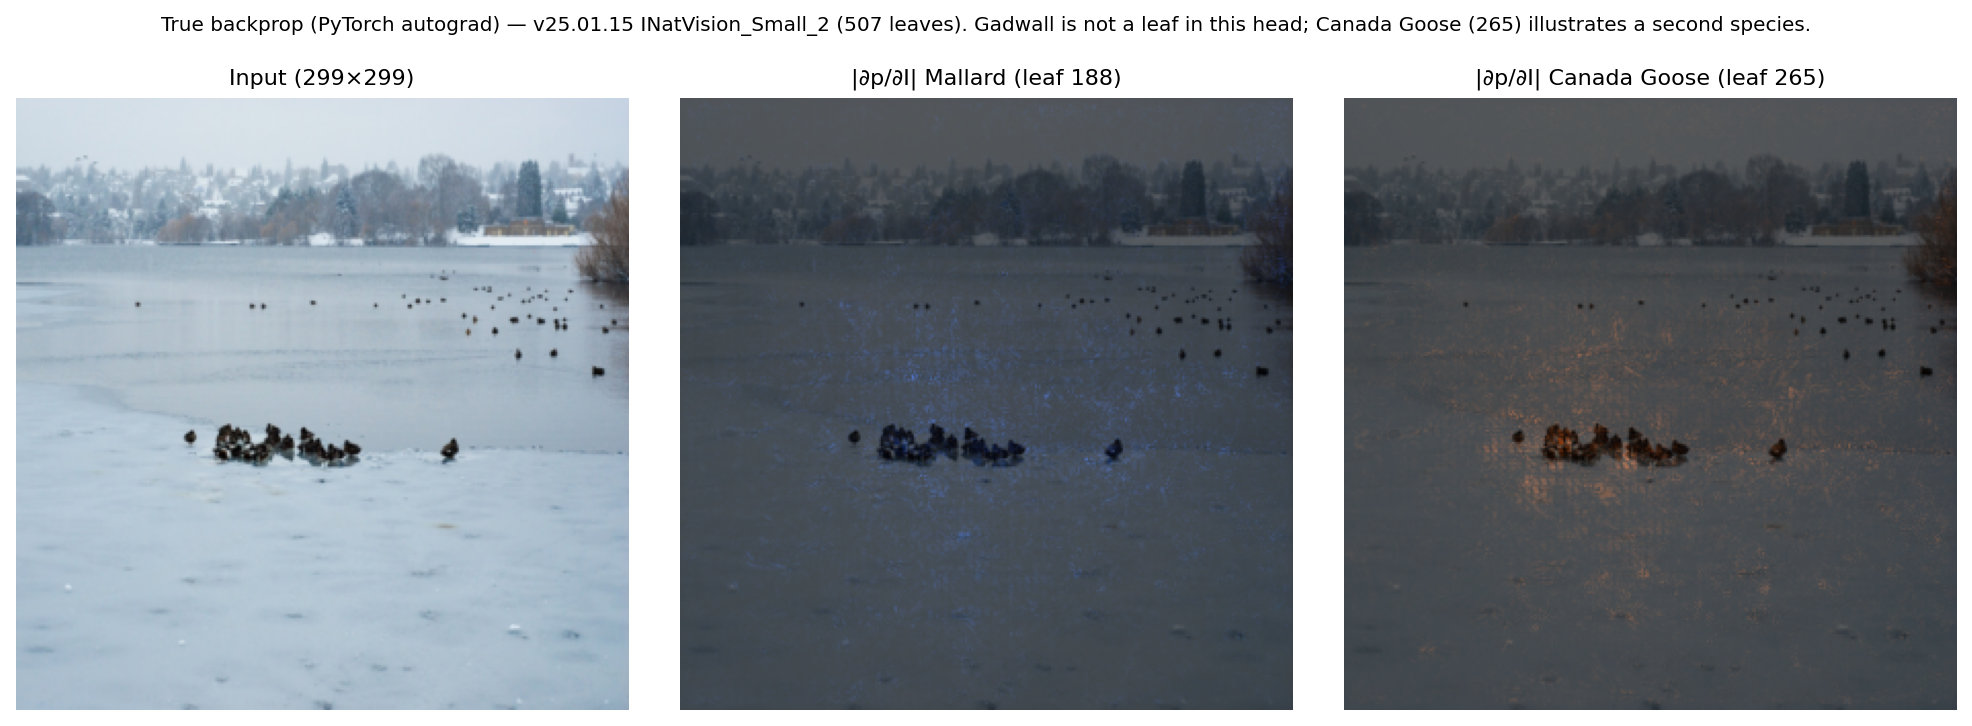
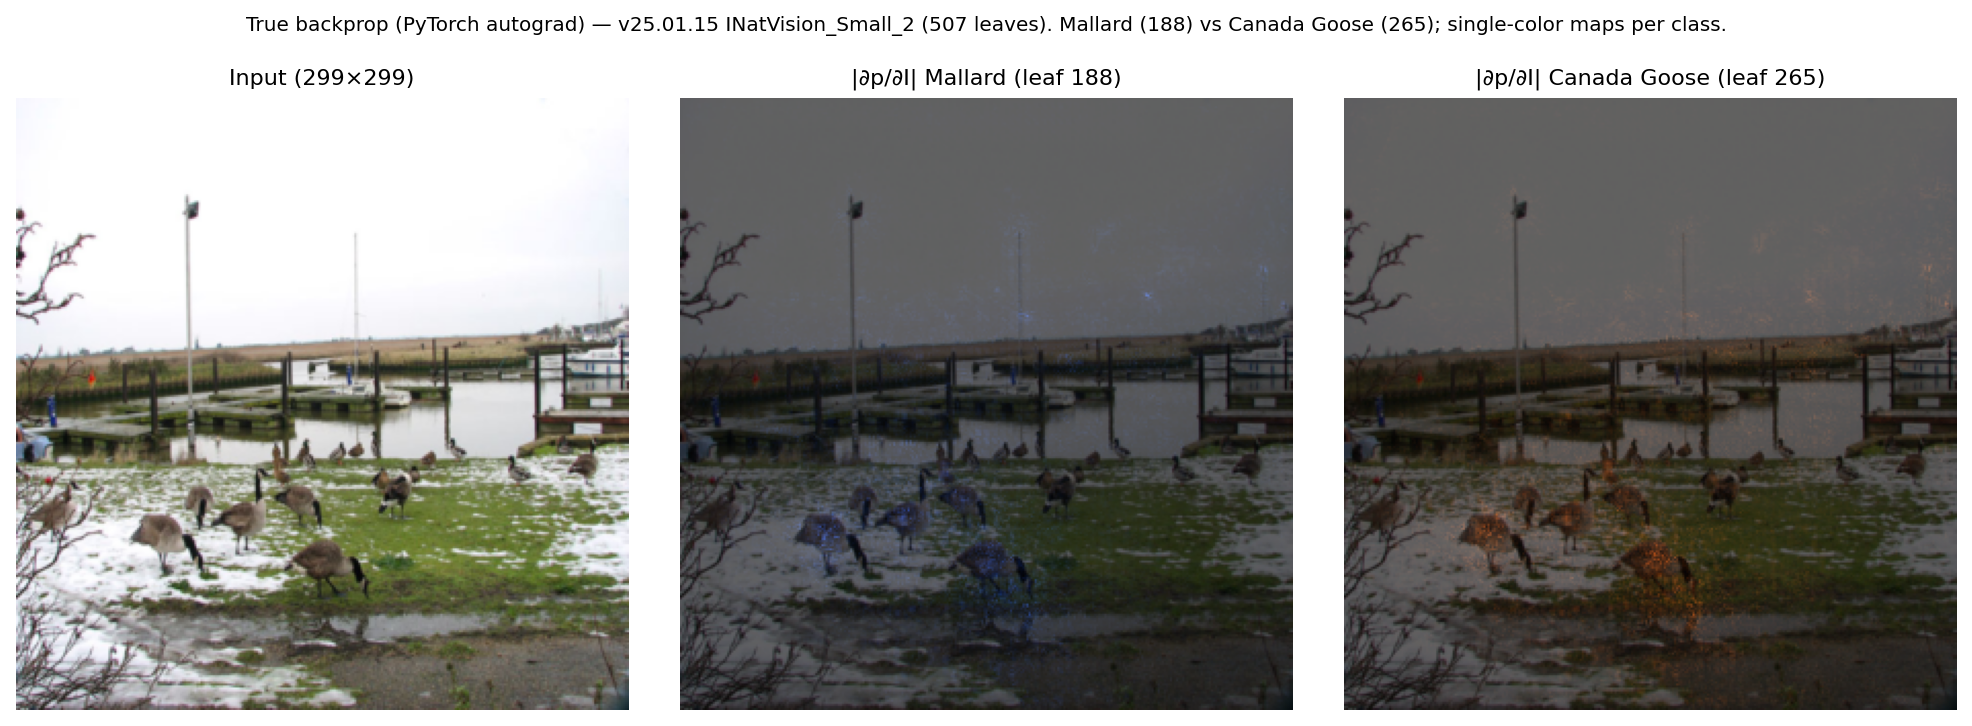
docs(examples): switch dual saliency input to mallard+Canada goose scene
Replace herd waterfowl stock with a Geograph/Wikimedia CC BY-SA 2.0 photo
showing mallards and Canada geese together (closer to the user reference).
Regenerate PNG/JSON; document chat attachment vs repo file in DUAL_SALIENCY_EXAMPLE.md.

diff --git a/tools/inat_vision_saliency/examples/generate_dual_class_saliency_example.py b/tools/inat_vision_saliency/examples/generate_dual_class_saliency_example.py
@@ -6,10 +6,9 @@ single RGB color (heatmap = magnitude of the per-pixel gradient, normalized, mul
 
 Default classes are **Mallard** (``Anas platyrhynchos``, leaf index 188) and **Canada Goose**
 (``Branta canadensis``, leaf index 265). The v25.01.15 ``INatVision_Small_2`` head has **507** leaves;
-**Gadwall** is not among them, so this example uses Canada Goose as a second waterbird class on the
-same input (see ``DUAL_SALIENCY_EXAMPLE.md``).
+**Gadwall** is not among them.
 
-Input image default: Wikimedia Commons herd waterfowl (CC BY-SA 2.5) — see script constants.
+Default input is a Wikimedia Commons photo of **mallards with Canada geese** (see ``DUAL_SALIENCY_EXAMPLE.md``).
 """
 
 from __future__ import annotations
@@ -76,7 +75,7 @@ def main() -> None:
     args = p.parse_args()
 
     ex_dir = Path(__file__).resolve().parent
-    default_img = ex_dir / "inputs" / "example_waterfowl_input.jpg"
+    default_img = ex_dir / "inputs" / "example_mallard_canada_goose_marina.jpg"
     image_path = args.image or default_img
     if not image_path.is_file():
         raise FileNotFoundError(f"Missing input image: {image_path}")
@@ -96,7 +95,11 @@ def main() -> None:
     )
 
     pil = Image.open(image_path).convert("RGB")
-    meta: dict = {"input_image": str(image_path), "classes": []}
+    try:
+        in_rel = str(image_path.resolve().relative_to(ex_dir))
+    except ValueError:
+        in_rel = str(image_path.resolve())
+    meta: dict = {"input_image": in_rel, "classes": []}
 
     panels: list[tuple[str, np.ndarray]] = []
     pil_small = pil.resize((299, 299), Image.Resampling.BILINEAR)
@@ -132,7 +135,7 @@ def main() -> None:
         ax.axis("off")
     fig.suptitle(
         "True backprop (PyTorch autograd) — v25.01.15 INatVision_Small_2 (507 leaves). "
-        "Gadwall is not a leaf in this head; Canada Goose (265) illustrates a second species.",
+        "Mallard (188) vs Canada Goose (265); single-color maps per class.",
         fontsize=9,
         y=1.02,
     )

diff --git a/tools/inat_vision_saliency/examples/DUAL_SALIENCY_EXAMPLE.md b/tools/inat_vision_saliency/examples/DUAL_SALIENCY_EXAMPLE.md
@@ -6,20 +6,16 @@ This folder includes a **reproducible example** of **exact** input saliency maps
 
 | File | Description |
 |------|-------------|
-| `inputs/example_waterfowl_input.jpg` | Example RGB input (resized from Wikimedia Commons; see attribution below). |
+| `inputs/example_mallard_canada_goose_marina.jpg` | Example RGB input (see attribution below). Scene: **mallard(s)** and **Canada goose / geese** together — aligned with the “mallard + goose on gravel” style reference you provided (the chat attachment itself is not stored as a file in this repo). |
 | `outputs/example_waterfowl_dual_saliency_true_backprop.png` | Three-panel figure: 299×299 input, then **two** saliency overlays. Each overlay uses **one solid color** for the magnitude of ∂(softmax class *k*)/∂pixels (normalized per map, blended over the input). |
 | `outputs/example_waterfowl_dual_saliency_true_backprop.json` | `top_probability` and bbox for each target class on this input. |
 
 ## Colors and classes
 
 - **Mallard** (`Anas platyrhynchos`, leaf index **188**): tint **RGB (29, 78, 216)** — deep blue.
-- **Second map**: **Canada Goose** (`Branta canadensis`, leaf index **265**): tint **RGB (234, 88, 12)** — orange.
+- **Canada Goose** (`Branta canadensis`, leaf index **265**): tint **RGB (234, 88, 12)** — orange.
 
-### Why not “Gadwall”?
-
-The **v25.01.15** `INatVision_Small_2_fact256_8bit` head exported here has **507** leaf classes. The release `taxonomy.csv` used with this model **does not include Gadwall** (*Mareca strepera* / *Anas strepera*). The closest honest second waterbird class for a **two-map illustration** on the same photo is **Canada Goose** (265), which is a leaf in this head.
-
-If Gadwall is added to a future vision head, re-run the generator with e.g. `--class-b <leaf_id>` once you know the leaf index.
+**Gadwall** (*Mareca strepera*) is **not** a leaf in the v25.01.15 `INatVision_Small_2` 507-class head, so this example uses **Canada Goose** as the second species (both appear in the reference photo you described).
 
 ## Regenerate
 
@@ -27,25 +23,23 @@ If Gadwall is added to a future vision head, re-run the generator with e.g. `--c
 pip install -e tools/inat_vision_saliency
 cd tools/inat_vision_saliency
 MPLBACKEND=Agg PYTHONPATH=. python3 examples/generate_dual_class_saliency_example.py \
-  --image examples/inputs/example_waterfowl_input.jpg
+  --image examples/inputs/example_mallard_canada_goose_marina.jpg
 ```
 
 Optional: `--class-a`, `--class-b`, `--color-a R,G,B`, `--color-b R,G,B`, `--alpha`, `--out-dir`.
 
 ## Input image attribution
 
-- **Source:** [Wikimedia Commons — *Herd of cold waterfowl on frozen Green Lake 2008*](https://commons.wikimedia.org/wiki/File:Herd_of_cold_waterfowl_on_frozen_Green_Lake_2008.jpg)  
-- **Author:** [Cacophony](https://commons.wikimedia.org/wiki/User:Cacophony)  
-- **License:** CC BY-SA 2.5  
+- **File:** [Canada geese and mallards at Burgh Castle Marina — geograph.org.uk — 1632106.jpg](https://commons.wikimedia.org/wiki/File:Canada_geese_and_mallards_at_Burgh_Castle_Marina_-_geograph.org.uk_-_1632106.jpg)  
+- **Author:** Evelyn Simak / [Geograph Britain and Ireland](https://www.geograph.org.uk/)  
+- **License:** CC BY-SA 2.0  
 
-The chat-attached photo in the issue was **not available as a file in this workspace**; this freely licensed substitute was used so the example can live in git. To run on your own photo, pass `--image /path/to/your.jpg`.
+## Raw GitHub links (this branch)
 
-## Raw GitHub link
-
-PNG (this branch):
+PNG:
 
 https://raw.githubusercontent.com/nebotron/iNaturalistReactNative/cursor/dual-saliency-example-da10/tools/inat_vision_saliency/examples/outputs/example_waterfowl_dual_saliency_true_backprop.png
 
-JSON metadata:
+JSON:
 
 https://raw.githubusercontent.com/nebotron/iNaturalistReactNative/cursor/dual-saliency-example-da10/tools/inat_vision_saliency/examples/outputs/example_waterfowl_dual_saliency_true_backprop.json